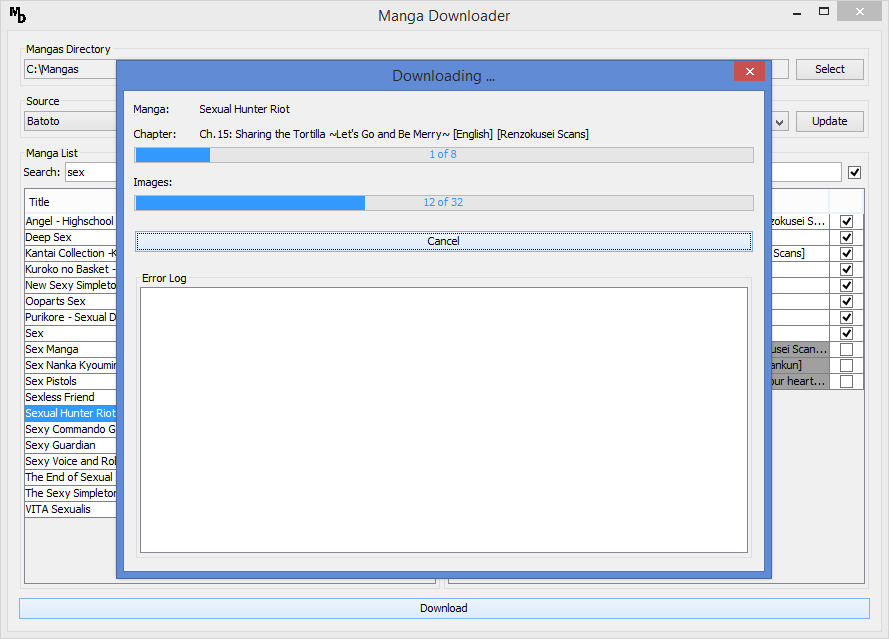
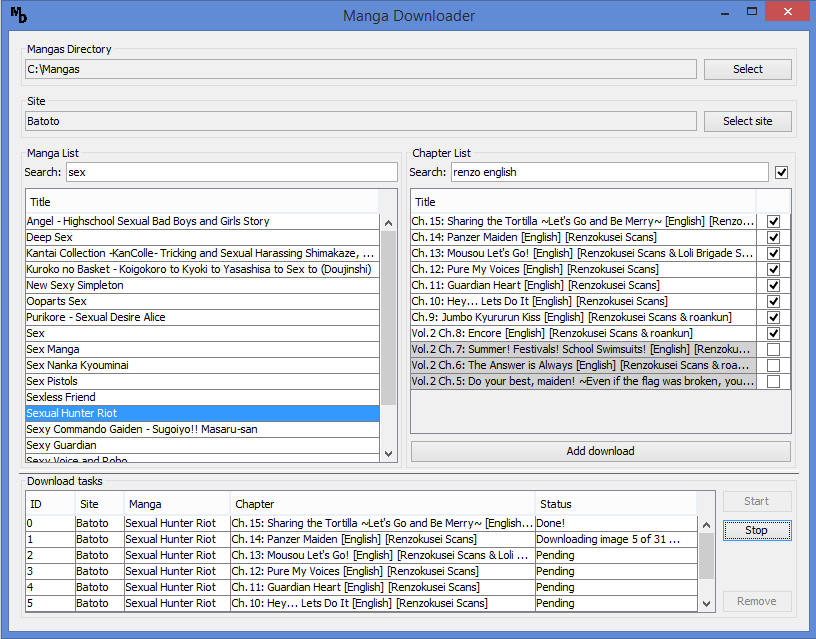
Readme images improved

diff --git a/README.md b/README.md
@@ -77,4 +77,6 @@ Developed with [NetBeans 8.0.2 (Java SE)](https://netbeans.org/downloads/).
 ##  Program screenshots
 ![MangaDownloader - Gui](https://raw.github.com/hurik/MangaDownloader/master/images/gui.png)
 
+![MangaDownloader - Gui Select Source](https://raw.github.com/hurik/MangaDownloader/master/images/gui-select-source.png)
+
 ![MangaDownloader - Gui Download](https://raw.github.com/hurik/MangaDownloader/master/images/gui-download.png)
